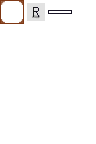
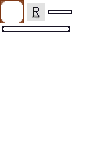
Random changes

Changed region(s): [[0.0, 0.1389, 0.75, 0.2222]]

diff --git a/src/monsters/spawner.rs b/src/monsters/spawner.rs
@@ -1,6 +1,8 @@
 use macroquad::prelude::*;
 use macroquad::rand::*;
 
+use crate::logic::Timer;
+
 use super::mushroom::Mushroom;
 use super::slime::Slime;
 use super::Monster;
@@ -10,24 +12,23 @@ use super::Monster;
 // dealing with so "radius" remains for now.
 #[derive(Debug)]
 pub struct Spawner {
-    kind: SpawnerType,
+    kind: MobType,
     pub spawn_radius: f32,
     max_mob: u32,
-    cooldown: f32,
-    max_cooldown: f32,
+    timer: Timer,
     pub x: f32,
     pub y: f32,
 }
 
 #[derive(PartialEq, Debug)]
-pub enum SpawnerType {
+pub enum MobType {
     Slime,
     Mushroom,
 }
 
 impl Spawner {
     pub fn new(
-        kind: SpawnerType,
+        kind: MobType,
         spawn_radius: f32,
         max_mob: u32,
         max_cooldown: f32,
@@ -38,20 +39,18 @@ impl Spawner {
             kind,
             spawn_radius,
             max_mob,
-            max_cooldown,
-            cooldown: max_cooldown,
+            timer: Timer::new(max_cooldown),
             x,
             y,
         }
     }
 
     pub fn tick(&mut self, monsters: &mut Vec<Monster>) {
-        if self.cooldown > 0. {
-            self.cooldown -= get_frame_time();
+        self.timer.tick();
+        if !self.timer.is_done() {
             return;
         }
-
-        self.cooldown = self.max_cooldown;
+        self.timer.repeat();
 
         if self.count_mob(&monsters) > self.max_mob {
             return;
@@ -64,12 +63,12 @@ impl Spawner {
             let y_offset = gen_range(-self.spawn_radius, self.spawn_radius);
 
             match self.kind {
-                SpawnerType::Slime => {
+                MobType::Slime => {
                     let slime = Slime::from(self.x + x_offset, self.y + y_offset);
                     let new_mob = Monster(Box::new(slime));
                     monsters.push(new_mob);
                 }
-                SpawnerType::Mushroom => {
+                MobType::Mushroom => {
                     let mushroom = Mushroom::from(self.x + x_offset, self.y + y_offset);
                     let new_mob = Monster(Box::new(mushroom));
                     monsters.push(new_mob)
@@ -93,7 +92,7 @@ impl Spawner {
                 continue;
             }
 
-            if let Some(_) = spawner_detect_box.intersect(mob_hitbox) {
+            if spawner_detect_box.overlaps(&mob_hitbox) {
                 num_mobs += 1;
             }
         }

diff --git a/src/ui/mod.rs b/src/ui/mod.rs
@@ -1,27 +1,35 @@
 use macroquad::prelude::*;
-use macroquad::ui::{hash, root_ui, Skin};
 
-use crate::logic::Game;
+use crate::logic::{Game, STANDARD_SQUARE, TILE_SIZE};
+use crate::player::{ONE_PIXEL, PLAYER_HEALTH};
 
 mod inventory;
 
 impl Game {
     pub fn hud(&self) {
-        let transparent = root_ui().style_builder().background(Image::empty()).build();
-        let skin = Skin {
-            window_style: transparent,
-            ..root_ui().default_skin()
+        self.draw_health_bar();
+    }
+
+    fn draw_health_bar(&self) {
+        let screen = self.cam_box();
+
+        let health_percentage = self.player.props.health / PLAYER_HEALTH;
+        draw_rectangle(
+            screen.x + 3. * ONE_PIXEL,
+            screen.y + 3. * ONE_PIXEL,
+            66. * ONE_PIXEL * health_percentage,
+            4. * ONE_PIXEL,
+            RED,
+        );
+
+        let texture = &self.textures["ui"];
+        let dest_size = Some(vec2(STANDARD_SQUARE * 3., STANDARD_SQUARE));
+        let source = Some(Rect::new(0., TILE_SIZE, TILE_SIZE * 3., TILE_SIZE));
+        let params = DrawTextureParams {
+            source,
+            dest_size,
+            ..Default::default()
         };
-
-        root_ui().push_skin(&skin);
-
-        root_ui().window(hash!(), vec2(0., 0.), vec2(250., 50.), |ui| {
-            ui.label(vec2(10., 10.), "Health");
-            let player_heath = self.player.props.health;
-            let rect = Rect::new(60., 10., player_heath, 30.);
-            ui.canvas().rect(rect, RED, GREEN)
-        });
-
-        root_ui().pop_skin();
+        draw_texture_ex(texture, screen.x, screen.y, WHITE, params)
     }
 }

diff --git a/src/logic.rs b/src/logic.rs
@@ -34,7 +34,7 @@ pub enum GameState {
     Transition(Timer, bool),
 }
 
-#[derive(PartialEq, Clone, Copy)]
+#[derive(PartialEq, Clone, Copy, Debug)]
 pub struct Timer {
     pub time: f32,
     pub duration: f32,
@@ -42,19 +42,23 @@ pub struct Timer {
 
 impl Timer {
     // If I were to made this tick down to 0 like a normal timer, it wouldn't work for some reason
-    fn new(dur: f32) -> Self {
+    pub fn new(dur: f32) -> Self {
         Timer {
             time: dur,
             duration: dur,
         }
     }
 
-    fn tick(&mut self) {
+    pub fn tick(&mut self) {
         self.time -= get_frame_time();
     }
 
-    fn is_done(&self) -> bool {
+    pub fn is_done(&self) -> bool {
         self.time < 0.
+    }
+
+    pub fn repeat(&mut self) {
+        self.time = self.duration
     }
 }
 
@@ -159,7 +163,10 @@ impl Game {
                 self.timer_progress(&mut timer, &mut moved);
                 return;
             }
-            GameState::GUI => return,
+            GameState::GUI => {
+                self.player.change_anim(false);
+                return;
+            }
             GameState::Normal => (),
         }
         self.is_touching_gate();
@@ -242,7 +249,7 @@ impl Game {
         let player_pos = &self.player.props.get_pos();
 
         for monster in self.get_monster_list() {
-            if let Some(_) = damage_zone.intersect(monster.get().hitbox()) {
+            if damage_zone.overlaps(&monster.get().hitbox()) {
                 let monster_props = monster.get_mut().get_mut_props();
                 let knockback = vec2(
                     monster_props.x - player_pos.x,

diff --git a/src/map.rs b/src/map.rs
@@ -193,12 +193,12 @@ fn make_spawners(objects: &Value) -> Option<Vec<Spawner>> {
 // String kind
 // int max_mob
 
-fn get_props(objects: &Value) -> Option<(f32, f32, SpawnerType, u32)> {
+fn get_props(objects: &Value) -> Option<(f32, f32, MobType, u32)> {
     let props = objects["properties"].as_array()?;
     // Default values
     let mut cooldown = 30.;
     let mut spawn_radius = 3. * STANDARD_SQUARE;
-    let mut kind = SpawnerType::Slime;
+    let mut kind = MobType::Slime;
     let mut max_mob = 3;
 
     for prop in props {
@@ -216,10 +216,10 @@ fn get_props(objects: &Value) -> Option<(f32, f32, SpawnerType, u32)> {
     Some((cooldown, spawn_radius, kind, max_mob))
 }
 
-fn what_kind(name: &str) -> SpawnerType {
+fn what_kind(name: &str) -> MobType {
     match name {
-        "slime" => SpawnerType::Slime,
-        "mushroom" => SpawnerType::Mushroom,
+        "slime" => MobType::Slime,
+        "mushroom" => MobType::Mushroom,
         x => panic!("you forgot to account for {x}"),
     }
 }

diff --git a/src/monsters/mushroom.rs b/src/monsters/mushroom.rs
@@ -3,10 +3,10 @@ use crate::player::*;
 use macroquad::experimental::animation::AnimatedSprite;
 use macroquad::prelude::*;
 
-use super::{spawner::SpawnerType, Entity, IsAMonster};
+use super::{spawner::MobType, Entity, IsAMonster};
 
 const MUSHROOM_HEALTH: f32 = 20.;
-const MUSHROOM_MAX_TRACK: f32 = 200.;
+const MUSHROOM_TRACKING_RANGE: f32 = 500.;
 const MUSHROOM_SPEED: f32 = 100.;
 
 #[derive(Clone)]
@@ -36,7 +36,7 @@ impl IsAMonster for Mushroom {
 
     fn move_to(&mut self, player_pos: Vec2) {
         let dist = self.props.get_pos().distance(player_pos);
-        if dist > MUSHROOM_MAX_TRACK {
+        if dist > MUSHROOM_TRACKING_RANGE {
             return;
         }
 
@@ -91,8 +91,8 @@ impl IsAMonster for Mushroom {
         &mut self.props
     }
 
-    fn get_type(&self) -> SpawnerType {
-        SpawnerType::Mushroom
+    fn get_type(&self) -> MobType {
+        MobType::Mushroom
     }
 }
 

diff --git a/src/player.rs b/src/player.rs
@@ -6,10 +6,10 @@ use macroquad::rand::rand;
 use std::f32::consts::PI;
 
 pub const INVUL_TIME: f32 = 1.0;
-const PLAYER_VELOCITY: f32 = 350.;
-const PLAYER_HEATH: f32 = 100.;
-const FRICTION: f32 = 1. / 2.;
 pub const ONE_PIXEL: f32 = (1. / TILE_SIZE) * STANDARD_SQUARE;
+pub const PLAYER_HEALTH: f32 = 100.;
+const PLAYER_VELOCITY: f32 = 350.;
+const FRICTION: f32 = 1. / 2.;
 
 #[derive(Clone)]
 pub struct Player {
@@ -133,7 +133,7 @@ impl Player {
         Player {
             attack_cooldown: 0.,
             invul_time: 0.,
-            props: Props::from(0., 0., PLAYER_HEATH, animation),
+            props: Props::from(0., 0., PLAYER_HEALTH, animation),
             held_weapon: Weapon::sword(),
             facing: Orientation::Down,
             inventory: Inventory::empty(),

diff --git a/src/monsters/slime.rs b/src/monsters/slime.rs
@@ -3,7 +3,7 @@ use crate::player::{Collidable, Player, Props, INVUL_TIME};
 use macroquad::experimental::animation::*;
 use macroquad::prelude::*;
 
-use super::{spawner::SpawnerType, Entity, IsAMonster};
+use super::{spawner::MobType, Entity, IsAMonster};
 
 const SLIME_HEALTH: f32 = 50.;
 const SLIME_SPEED: f32 = 150.;
@@ -93,8 +93,8 @@ impl IsAMonster for Slime {
         &mut self.props
     }
 
-    fn get_type(&self) -> SpawnerType {
-        SpawnerType::Slime
+    fn get_type(&self) -> MobType {
+        MobType::Slime
     }
 }
 

diff --git a/src/monsters/mod.rs b/src/monsters/mod.rs
@@ -1,6 +1,6 @@
 use crate::{logic::*, player::*};
 use macroquad::prelude::*;
-use spawner::SpawnerType;
+use spawner::MobType;
 
 pub mod mushroom;
 pub mod slime;
@@ -30,7 +30,7 @@ pub trait IsAMonster {
     fn change_anim(&mut self);
     fn get_props(&self) -> &Props;
     fn get_mut_props(&mut self) -> &mut Props;
-    fn get_type(&self) -> SpawnerType;
+    fn get_type(&self) -> MobType;
     fn max_health(&self) -> f32;
     fn draw_health_bar(&self, texture: &Texture2D) {
         let props = self.get_props();

diff --git a/src/camera.rs b/src/camera.rs
@@ -95,13 +95,13 @@ impl Game {
         let current_map = &self.maps[&self.current_map];
         let player_pos = self.player.pos();
 
-        self.hud();
         self.draw_terrain();
         self.draw_monsters(current_map);
         self.draw_player();
         //self.draw_gates(current_map);
         self.draw_decorations();
         self.draw_npcs(current_map, player_pos);
+        self.hud();
 
         match &self.current_state {
             GameState::Normal => (),
